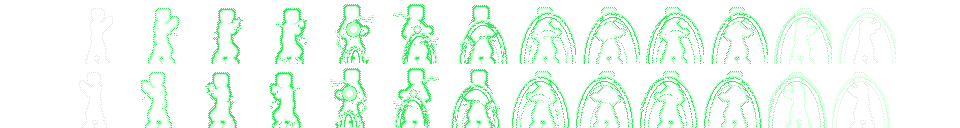
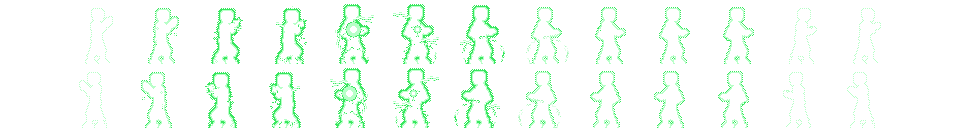
EMP Field v4: one radius-2 field with the dome look, in-clip dome removed
Claude-Session: https://claude.ai/code/session_01Szh5ttRDb89qDV89ViZpPu

diff --git a/tools/astro.py b/tools/astro.py
@@ -2129,7 +2129,7 @@ CLIPS = {
                  4: [('impaleUp2', 'head', -14, 4, {'alpha': {'W': 180, 'l': 170, 'L': 160}}), ('spark', 'head', 8, 8), ('sparkL', 'head', -9, 30)],
                  5: [('crackle4b', 'head', 3, 15), ('spark', 'head', -8, 20)], 6: [('spark', 'head', 6, 14), ('staticV', 'head', -7, 10)]})),
  'empField': ('EMP Field', 5,
-  'EMP Field (Aquarius ninjutsu, Elemental 6, Wide AoE, Slow 2 rounds INT save DC 12: the fighter amplifies its inner electrical field with chakra into a dome that repulses enemies and hinders their attacks), v2 (Christopher 2026-10-30: more dramatic; the force field must radiate outward): from the guard the fighter makes the seal and sinks, a crackling green aura rising and arcs leaping off its shoulders; it crosses both forearms before its chest and the charge builds, lightning crawling over its whole body, its eyes blazing white, sparks spitting off the floor; then it throws both arms wide and down with a roar and the field detonates outward: a white flash at its chest, bolts lashing out in every direction, and the dome of crackling electricity blasts out from its body, small, then wider, then full size, with electric shock rings racing outward along the floor; the dome stands round it, crackling, and pulses of force keep radiating outward through it, ring after ring; then it fades as the fighter rises back into the guard (the testbed draws the field over the AoE while it lasts).', [
+  'EMP Field (Aquarius ninjutsu, Elemental 6, Wide AoE, Slow 2 rounds INT save DC 12: the fighter amplifies its inner electrical field with chakra into a dome that repulses enemies and hinders their attacks), v2 (Christopher 2026-10-30: more dramatic; the force field must radiate outward): from the guard the fighter makes the seal and sinks, a crackling green aura rising and arcs leaping off its shoulders; it crosses both forearms before its chest and the charge builds, lightning crawling over its whole body, its eyes blazing white, sparks spitting off the floor; then it throws both arms wide and down with a roar and the field detonates outward: a white flash at its chest, bolts lashing out in every direction, and the dome of crackling electricity blasts out from its body, small, then wider, then full size, with electric shock rings racing outward along the floor; the dome stands round it, crackling, and pulses of force keep radiating outward through it, ring after ring; then it fades as the fighter rises back into the guard (v4, Christopher 2026-11-03: one field only, with the look of the small dome and the radius of the large one: the clip keeps the charge, the flash, the bolts and the floor shock rings, and the testbed draws the dome itself at radius 2).', [
      g(),
      g(an=U.SEAL_N, af=U.SEAL_F, bob=(1, 1, 1), lean=(0, 0)),
      g(an=U.SEAL_N, af=U.SEAL_F, bob=(2, 2, 2), lean=(0, 1), **LOW),
@@ -2147,20 +2147,16 @@ CLIPS = {
   [None, 'closed', 'squint', 'strain', 'strain', 'roar', 'roar', 'roar', 'squint', 'squint', 'squint', 'squint', None, None, None],
   [0, 1, 2, 3, 3, 3, 3, 3, 2, 2, 2, 2, 1, 1, 0],
   dict(fps=10, auraColors=('#b8ffc8', '#39e75f'), rm='E: +1 bracing as the charge builds, -1 on the release',
-       extra={'zone': {'rule': 'EMP Field (Wide AoE): centred on the caster\'s hex (selfCentered, Claude\'s reading of "a dome of protection"), radius 2 for 2 rounds (Christopher 2026-11-03: the field covers a radius of 2; v3: the clip only shows the burst leaving the body, the testbed draws the field itself at full size: an ellipse of R = (radius + 0.5) * hexStep * sqrt(3) and ry = 0.92 R round the caster, as the Guardian Barrier dome is sized, growing from 0 to R over 0.5 s with an ease-out, then standing with a faint #b8ffc8 fill at alpha 0.10, a jagged 3 px rim (#ffffff glint running round it, #b8ffc8, #39e75f, #14a03c), arcs crawling over it and two pulse rings running outward from the caster every 0.6 s; preview hex-sprites/astro/aquarius/emp-field-radius2-v3, tool hex-sprites/tools/astro_field.py); v2: on the cast the field radiates outward from the caster across the AoE (rings growing hex by hex, as Explosive Tag fills its hexes ring by ring); while it lasts the testbed draws the crackling dome (edomeD / edomeDim flickering) over the AoE with an eripple pulse running outward every few frames; enemies inside on the cast take Elemental 6, save or are Slowed 2 rounds, and are pushed to the edge (repulse, placeholder 1 hex)', 'pattern': 'edomeD', 'pulse': ['eripple0', 'eripple1', 'eripple2', 'eripple3'], 'radius': 2, 'rounds': 2, 'draw': {'R': '(radius + 0.5) * hexStep * sqrt(3)', 'ry': 0.92, 'riseMs': 500, 'fill': ['#b8ffc8', 0.1], 'rim': ['#ffffff', '#b8ffc8', '#39e75f', '#14a03c'], 'pulseMs': 600}},
+       extra={'zone': {'rule': 'EMP Field (Wide AoE): centred on the caster\'s hex (selfCentered, Claude\'s reading of "a dome of protection"), radius 2 for 2 rounds (Christopher 2026-11-03: the field covers a radius of 2; v4 (2026-11-03: one field, the small dome\'s look at the large one\'s radius): the clip draws no dome; the testbed draws the field as a dome standing on the caster\'s floor line, half-width R = (radius + 0.5) * hexStep * sqrt(3) (the Guardian Barrier sizing) and height 0.92 R, no fill: a jagged 3 px arc (#ffffff / #b8ffc8 / #39e75f, a #14a03c dotted inner shell 6 px in), arcs crawling over the shell, growing out from the caster to R over 0.5 s, then standing with dotted pulse domes running outward from the caster every 0.6 s; preview hex-sprites/astro/aquarius/emp-field-radius2-v4, tool hex-sprites/tools/astro_field.py); v2: on the cast the field radiates outward from the caster across the AoE (rings growing hex by hex, as Explosive Tag fills its hexes ring by ring); while it lasts the testbed draws the crackling dome (edomeD / edomeDim flickering) over the AoE with an eripple pulse running outward every few frames; enemies inside on the cast take Elemental 6, save or are Slowed 2 rounds, and are pushed to the edge (repulse, placeholder 1 hex)', 'pattern': 'edomeD', 'pulse': ['eripple0', 'eripple1', 'eripple2', 'eripple3'], 'radius': 2, 'rounds': 2, 'draw': {'shape': 'dome on the floor line', 'R': '(radius + 0.5) * hexStep * sqrt(3)', 'height': 0.92, 'riseMs': 500, 'fill': None, 'rim': ['#ffffff', '#b8ffc8', '#39e75f'], 'innerShell': ['#14a03c', 6], 'pulseMs': 600}},
               'targetState': {'rule': 'EMP Field: every enemy inside the radius that fails the save plays empSlowed on loop once the field\'s growing edge has reached it, while the Slow lasts', 'state': 'empSlowed', 'loopFrom': 0, 'element': 'air'}},
        anchored={2: [('spark', 'head', -9, 12), ('sparkL', 'head', 9, 18), ('staticV', 'head', -10, 26)],
                  3: [('crackle6', 'hand', 0, 0), ('crackle4', 'head', -10, 18), ('bolt8', 'head', 11, 10), ('spark', 'feet', -10, -2), ('sparkL', 'feet', 10, -3)],
                  4: [('crackle6b', 'hand', 0, 0), ('crackle4b', 'head', 10, 24), ('bolt8b', 'head', -12, 8), ('staticV2', 'head', 0, -9), ('spark', 'feet', 11, -2), ('sparkL', 'feet', -9, -4), ('zapRing6', 'feet', 0, -2)],
-                 5: [('voltOrb8', 'head', 2, 16), ('edomeA', 'feet', 0, -10), ('zapRing12', 'feet', 0, -5), ('bolt18', 'head', 13, 6), ('boltV', 'head', -13, 26)],
-                 6: [('edomeB', 'feet', 0, -17), ('zapRing16', 'feet', 0, -7), ('bolt18b', 'head', -14, 2), ('bolt18', 'head', 14, 28), ('voltOrb4', 'head', 2, 16)],
-                 7: [('edomeC', 'feet', 0, -22), ('zapRing20', 'feet', 0, -9), ('eripple0', 'feet', 0, -13, {'alpha': {'W': 170, 'l': 170, 'L': 170}}), ('bolt12', 'head', -15, 30)],
-                 8: [('edomeD', 'feet', 0, -26), ('eripple1', 'feet', 0, -17), ('zapRing20', 'feet', 0, -9, {'alpha': {'W': 120, 'l': 110, 'L': 100}})],
-                 9: [('edome4', 'feet', 0, -26), ('eripple2', 'feet', 0, -21), ('eripple0', 'feet', 0, -13, {'alpha': {'W': 170, 'l': 170, 'L': 170}})],
-                 10: [('edomeD', 'feet', 0, -26), ('eripple3', 'feet', 0, -25), ('eripple1', 'feet', 0, -17)],
-                 11: [('edome4', 'feet', 0, -26), ('eripple2', 'feet', 0, -21, {'alpha': {'W': 170, 'l': 170, 'L': 170}})],
-                 12: [('edomeDim', 'feet', 0, -26, {'alpha': {'W': 150, 'l': 130, 'L': 120}}), ('eripple3', 'feet', 0, -25, {'alpha': {'l': 120, 'L': 110}})],
-                 13: [('edomeDim', 'feet', 0, -26, {'alpha': {'W': 70, 'l': 60, 'L': 50}})]})),
+                 5: [('voltOrb8', 'head', 2, 16), ('zapRing12', 'feet', 0, -5), ('bolt18', 'head', 13, 6), ('boltV', 'head', -13, 26)],
+                 6: [('zapRing16', 'feet', 0, -7), ('bolt18b', 'head', -14, 2), ('bolt18', 'head', 14, 28), ('voltOrb4', 'head', 2, 16)],
+                 7: [('zapRing20', 'feet', 0, -9), ('bolt12', 'head', -15, 30)],
+                 8: [('zapRing20', 'feet', 0, -9, {'alpha': {'W': 120, 'l': 110, 'L': 100}}), ('spark', 'head', 10, 20)],
+                 9: [('sparkL', 'head', -10, 14)], 10: [('spark', 'head', 9, 30)], 11: [('sparkL', 'head', -9, 24)], 12: [('spark', 'head', 8, 12)]})),
  'empSlowed': ('EMP Slowed', 0,
   'EMP Slowed (target state of EMP Field, loops while the Slow 2 rounds lasts): static crawls over the fighter, small arcs jumping between its shoulders, arms and knees; its guard sags and it twitches in fits, a limb jerking, as if its nerves misfire, sparks spitting off it.', [
      g(an=band(-40, -125), af=band(-35, -120), bob=(2, 2, 2), lean=(0, 1), **LOW),
